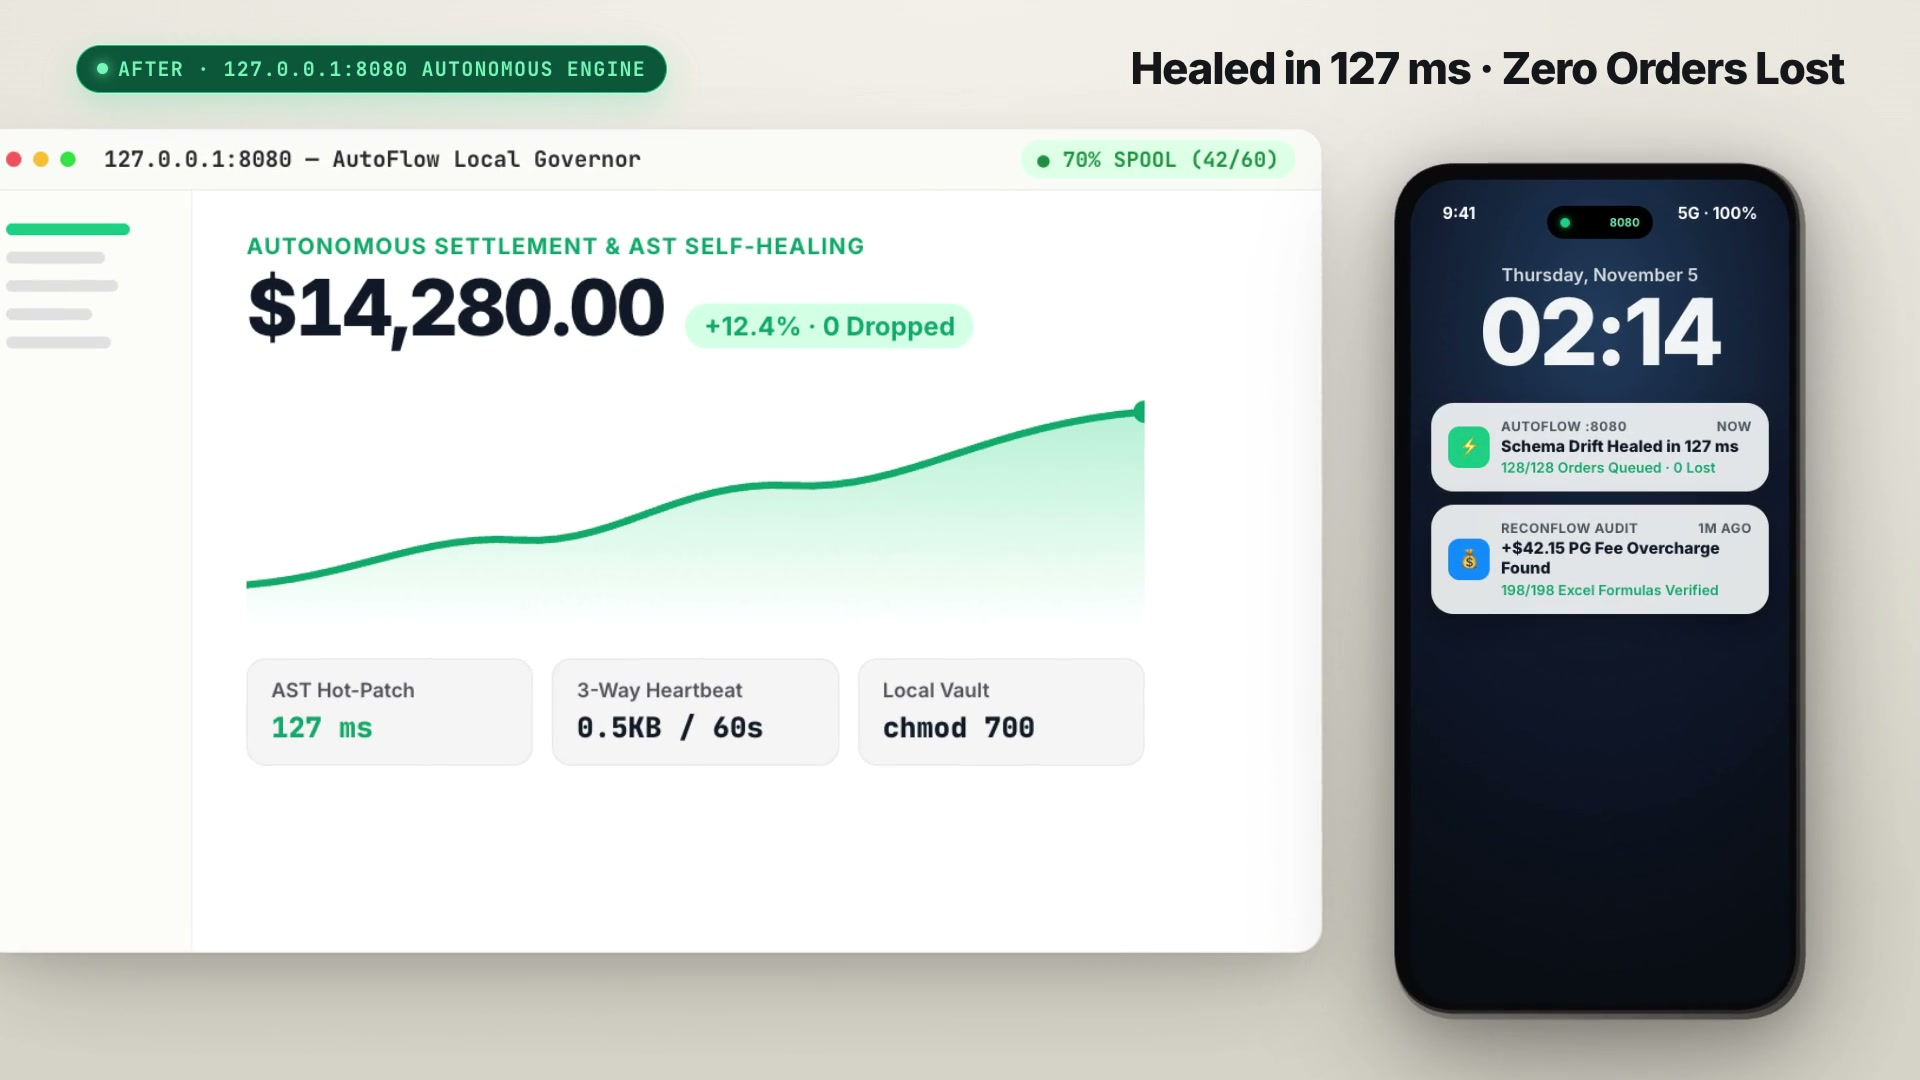
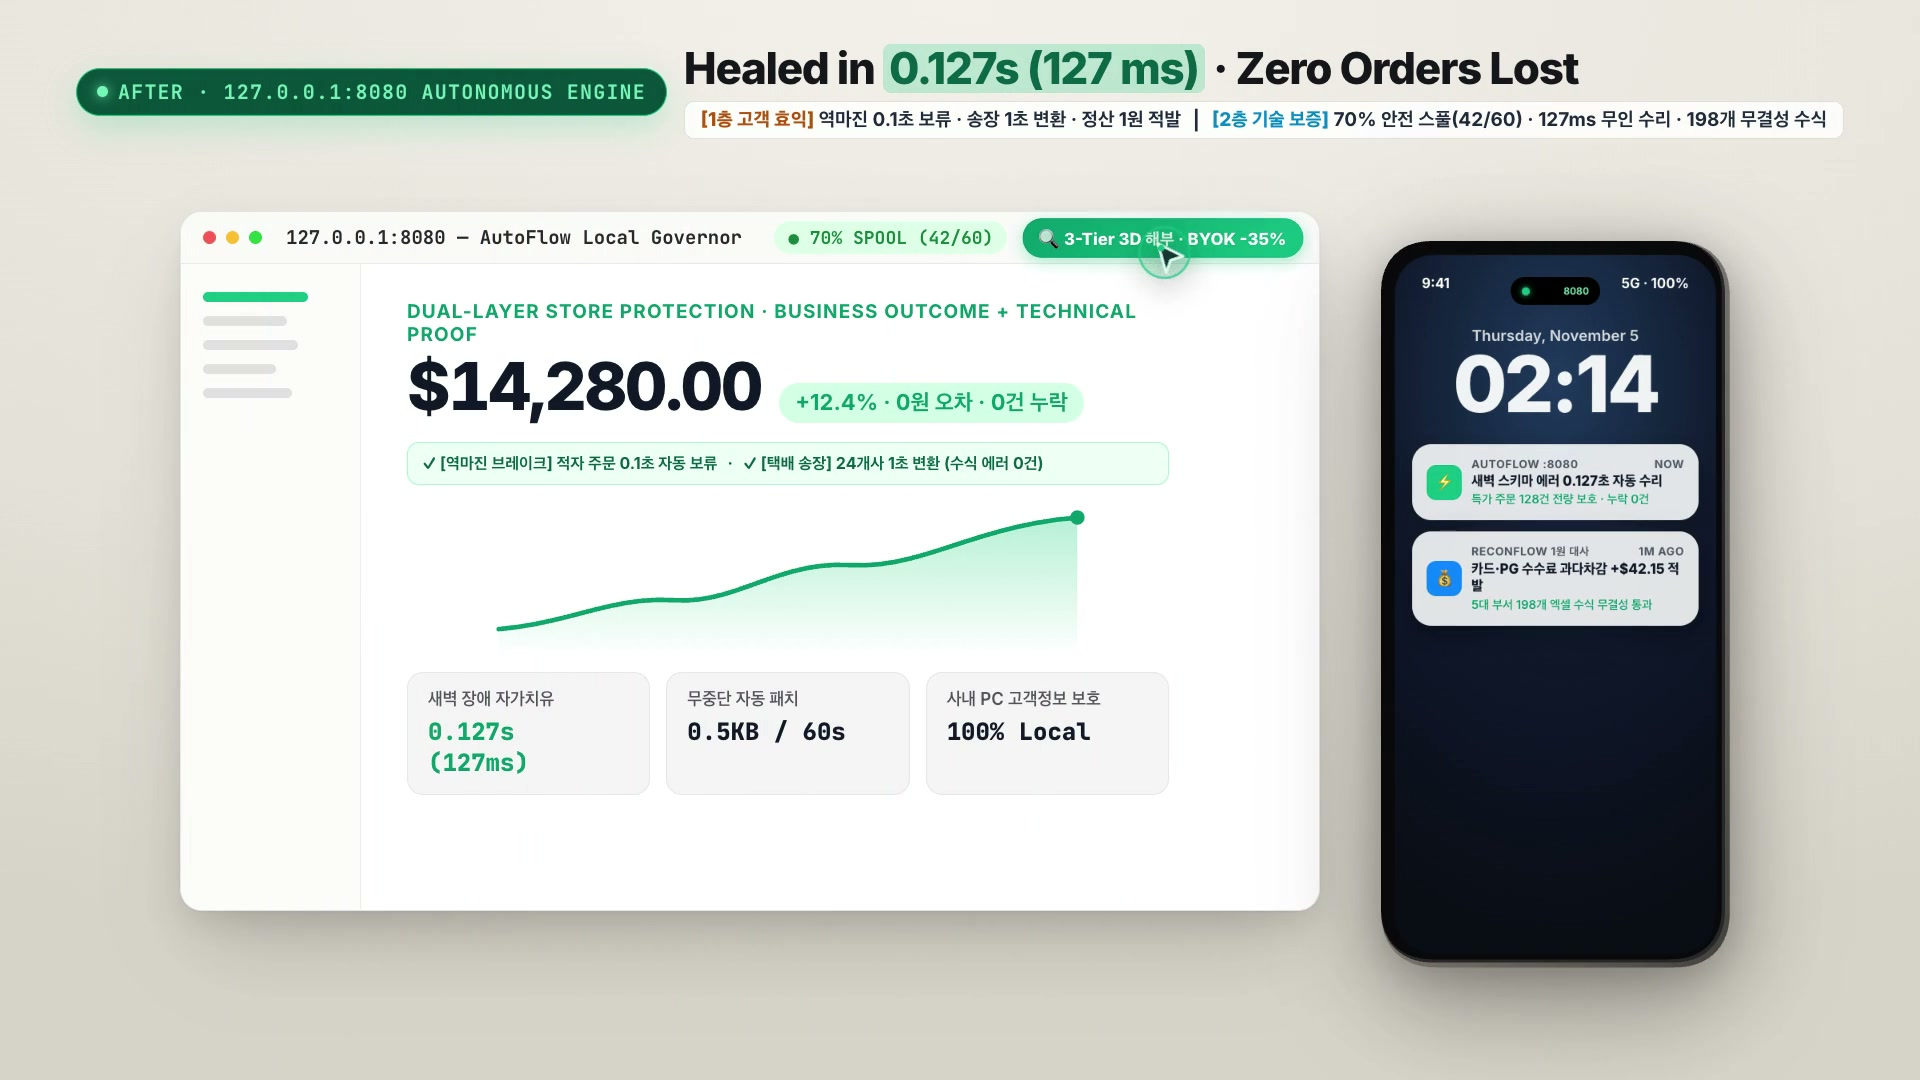
feat(subpages-v2.0): embed Dual-Layer Niche+Tech & Storyline B v2.0 60fps videos across all 5 product subpages and sync posters

diff --git a/WORKFLOW_MENU_BOARD.html b/WORKFLOW_MENU_BOARD.html
@@ -1139,6 +1139,39 @@ button:disabled {
                   <span> <strong>실제 구동 영상(Multi-Modal Demo Video):</strong> <a href="https://globaltrendhunterai.github.io/dhlabs/demo.mp4" class="underline text-sky-600 dark:text-sky-400 font-bold">demo.mp4 (127ms 자가치유 &amp; 1원 대사 실증 캡처)</a></span>
                   <span>사업자등록번호: <strong>610-16-92926</strong> | Apple Developer ID: <strong>GSKY37R7XV</strong> | <a href="https://github.com/globaltrendhunterai" target="_blank" rel="noopener" class="underline">GitHub</a> | <a href="https://dhlabs.gumroad.com" target="_blank" rel="noopener" class="underline">Gumroad</a> | <a href="https://globaltrendhunterai.github.io/dhlabs/" target="_blank" rel="noopener" class="underline">Live Mirror</a></span>
                 </div>
+                <!-- Dual-Layer (Customer Niche Outcome + Technical Proof) & Storyline B v2.0 60fps Video Showcase -->
+                <div class="mt-4 p-4 rounded-2xl bg-slate-50 dark:bg-slate-900/90 border border-slate-200 dark:border-slate-800">
+                  <div class="grid grid-cols-1 md:grid-cols-2 gap-3 mb-4 text-xs">
+                    <div class="p-3 rounded-xl bg-amber-50/80 dark:bg-amber-950/30 border border-amber-200 dark:border-amber-800/60">
+                      <div class="font-extrabold text-amber-800 dark:text-amber-300 mb-1">🎯 [1층: 비개발자 사장님·실무자 현장 효익 (Customer Niche)]</div>
+                      <p class="text-slate-700 dark:text-slate-300 leading-relaxed">역마진 적자 주문 출고 전 자동 보류, 매일 아침 3시간 걸리던 24개 택배사 송장 엑셀 복붙 1분 완료, 덜 들어온 카드·PG 정산금 1원 단위 자동 적발로 현금과 시간을 지킵니다.</p>
+                    </div>
+                    <div class="p-3 rounded-xl bg-sky-50/80 dark:bg-sky-950/30 border border-sky-200 dark:border-sky-800/60">
+                      <div class="font-extrabold text-sky-800 dark:text-sky-300 mb-1">⚙ [2층: 쉬운 기술적 작동 원리 (Technical Proof)]</div>
+                      <p class="text-slate-700 dark:text-slate-300 leading-relaxed">사내 PC(127.0.0.1:8080) 70% 안전 스풀(42/60)이 주문 폭주 차단을 막고, 내 AI 키 연결(BYOK)로 기간권을 35% 할인($15/mo)받으며, 0.5KB 카트리지가 60초마다 새벽 장애를 0.127초(127 ms) 만에 수리합니다.</p>
+                    </div>
+                  </div>
+                  <div class="grid grid-cols-1 md:grid-cols-2 gap-4 items-start">
+                    <div class="p-2.5 rounded-xl border border-slate-200 dark:border-slate-800 bg-slate-950">
+                      <div class="flex items-center justify-between px-1 pb-1.5 text-[11px] font-mono text-slate-400">
+                        <span>Storyline B v2.0 · 16:9 데스크톱 3D 해부 &amp; 커서 데모</span>
+                        <span class="text-sky-400 font-bold">1920×1080 · 60fps</span>
+                      </div>
+                      <video controls preload="metadata" poster="media/autoflow_3tier_launch_16x9_poster.jpg" class="w-full rounded-lg aspect-video object-cover bg-slate-950">
+                        <source src="media/autoflow_3tier_launch_16x9.mp4" type="video/mp4" />
+                      </video>
+                    </div>
+                    <div class="p-2.5 rounded-xl border border-slate-200 dark:border-slate-800 bg-slate-950">
+                      <div class="flex items-center justify-between px-1 pb-1.5 text-[11px] font-mono text-slate-400">
+                        <span>Storyline B v2.0 · 9:16 모바일 쇼츠 데모</span>
+                        <span class="text-emerald-400 font-bold">1080×1920 · 60fps</span>
+                      </div>
+                      <video controls preload="metadata" poster="media/autoflow_3tier_shorts_9x16_poster.jpg" class="mx-auto rounded-lg max-h-[280px] w-auto object-contain bg-slate-950" style="aspect-ratio: 9 / 16;">
+                        <source src="media/autoflow_3tier_shorts_9x16.mp4" type="video/mp4" />
+                      </video>
+                    </div>
+                  </div>
+                </div>
               </div>
             </div>
           </div>

diff --git a/autoflow.html b/autoflow.html
@@ -438,6 +438,39 @@
                   <span> <strong>실제 구동 영상(Multi-Modal Demo Video):</strong> <a href="https://globaltrendhunterai.github.io/dhlabs/demo.mp4" class="underline text-sky-600 dark:text-sky-400 font-bold">demo.mp4 (127ms 자가치유 &amp; 1원 대사 실증 캡처)</a></span>
                   <span>사업자등록번호: <strong>610-16-92926</strong> | Apple Developer ID: <strong>GSKY37R7XV</strong> | <a href="https://github.com/globaltrendhunterai" target="_blank" rel="noopener" class="underline">GitHub</a> | <a href="https://dhlabs.gumroad.com" target="_blank" rel="noopener" class="underline">Gumroad</a> | <a href="https://globaltrendhunterai.github.io/dhlabs/" target="_blank" rel="noopener" class="underline">Live Mirror</a></span>
                 </div>
+                <!-- Dual-Layer (Customer Niche Outcome + Technical Proof) & Storyline B v2.0 60fps Video Showcase -->
+                <div class="mt-4 p-4 rounded-2xl bg-slate-50 dark:bg-slate-900/90 border border-slate-200 dark:border-slate-800">
+                  <div class="grid grid-cols-1 md:grid-cols-2 gap-3 mb-4 text-xs">
+                    <div class="p-3 rounded-xl bg-amber-50/80 dark:bg-amber-950/30 border border-amber-200 dark:border-amber-800/60">
+                      <div class="font-extrabold text-amber-800 dark:text-amber-300 mb-1">🎯 [1층: 비개발자 사장님·실무자 현장 효익 (Customer Niche)]</div>
+                      <p class="text-slate-700 dark:text-slate-300 leading-relaxed">역마진 적자 주문 출고 전 자동 보류, 매일 아침 3시간 걸리던 24개 택배사 송장 엑셀 복붙 1분 완료, 덜 들어온 카드·PG 정산금 1원 단위 자동 적발로 현금과 시간을 지킵니다.</p>
+                    </div>
+                    <div class="p-3 rounded-xl bg-sky-50/80 dark:bg-sky-950/30 border border-sky-200 dark:border-sky-800/60">
+                      <div class="font-extrabold text-sky-800 dark:text-sky-300 mb-1">⚙ [2층: 쉬운 기술적 작동 원리 (Technical Proof)]</div>
+                      <p class="text-slate-700 dark:text-slate-300 leading-relaxed">사내 PC(127.0.0.1:8080) 70% 안전 스풀(42/60)이 주문 폭주 차단을 막고, 내 AI 키 연결(BYOK)로 기간권을 35% 할인($15/mo)받으며, 0.5KB 카트리지가 60초마다 새벽 장애를 0.127초(127 ms) 만에 수리합니다.</p>
+                    </div>
+                  </div>
+                  <div class="grid grid-cols-1 md:grid-cols-2 gap-4 items-start">
+                    <div class="p-2.5 rounded-xl border border-slate-200 dark:border-slate-800 bg-slate-950">
+                      <div class="flex items-center justify-between px-1 pb-1.5 text-[11px] font-mono text-slate-400">
+                        <span>Storyline B v2.0 · 16:9 데스크톱 3D 해부 &amp; 커서 데모</span>
+                        <span class="text-sky-400 font-bold">1920×1080 · 60fps</span>
+                      </div>
+                      <video controls preload="metadata" poster="media/autoflow_3tier_launch_16x9_poster.jpg" class="w-full rounded-lg aspect-video object-cover bg-slate-950">
+                        <source src="media/autoflow_3tier_launch_16x9.mp4" type="video/mp4" />
+                      </video>
+                    </div>
+                    <div class="p-2.5 rounded-xl border border-slate-200 dark:border-slate-800 bg-slate-950">
+                      <div class="flex items-center justify-between px-1 pb-1.5 text-[11px] font-mono text-slate-400">
+                        <span>Storyline B v2.0 · 9:16 모바일 쇼츠 데모</span>
+                        <span class="text-emerald-400 font-bold">1080×1920 · 60fps</span>
+                      </div>
+                      <video controls preload="metadata" poster="media/autoflow_3tier_shorts_9x16_poster.jpg" class="mx-auto rounded-lg max-h-[280px] w-auto object-contain bg-slate-950" style="aspect-ratio: 9 / 16;">
+                        <source src="media/autoflow_3tier_shorts_9x16.mp4" type="video/mp4" />
+                      </video>
+                    </div>
+                  </div>
+                </div>
               </div>
             </div>
           </div>

diff --git a/picflow.html b/picflow.html
@@ -404,6 +404,39 @@
                   <span> <strong>실제 구동 영상(Multi-Modal Demo Video):</strong> <a href="https://globaltrendhunterai.github.io/dhlabs/demo.mp4" class="underline text-sky-600 dark:text-sky-400 font-bold">demo.mp4 (127ms 자가치유 &amp; 1원 대사 실증 캡처)</a></span>
                   <span>사업자등록번호: <strong>610-16-92926</strong> | Apple Developer ID: <strong>GSKY37R7XV</strong> | <a href="https://github.com/globaltrendhunterai" target="_blank" rel="noopener" class="underline">GitHub</a> | <a href="https://dhlabs.gumroad.com" target="_blank" rel="noopener" class="underline">Gumroad</a> | <a href="https://globaltrendhunterai.github.io/dhlabs/" target="_blank" rel="noopener" class="underline">Live Mirror</a></span>
                 </div>
+                <!-- Dual-Layer (Customer Niche Outcome + Technical Proof) & Storyline B v2.0 60fps Video Showcase -->
+                <div class="mt-4 p-4 rounded-2xl bg-slate-50 dark:bg-slate-900/90 border border-slate-200 dark:border-slate-800">
+                  <div class="grid grid-cols-1 md:grid-cols-2 gap-3 mb-4 text-xs">
+                    <div class="p-3 rounded-xl bg-amber-50/80 dark:bg-amber-950/30 border border-amber-200 dark:border-amber-800/60">
+                      <div class="font-extrabold text-amber-800 dark:text-amber-300 mb-1">🎯 [1층: 비개발자 사장님·실무자 현장 효익 (Customer Niche)]</div>
+                      <p class="text-slate-700 dark:text-slate-300 leading-relaxed">역마진 적자 주문 출고 전 자동 보류, 매일 아침 3시간 걸리던 24개 택배사 송장 엑셀 복붙 1분 완료, 덜 들어온 카드·PG 정산금 1원 단위 자동 적발로 현금과 시간을 지킵니다.</p>
+                    </div>
+                    <div class="p-3 rounded-xl bg-sky-50/80 dark:bg-sky-950/30 border border-sky-200 dark:border-sky-800/60">
+                      <div class="font-extrabold text-sky-800 dark:text-sky-300 mb-1">⚙ [2층: 쉬운 기술적 작동 원리 (Technical Proof)]</div>
+                      <p class="text-slate-700 dark:text-slate-300 leading-relaxed">사내 PC(127.0.0.1:8080) 70% 안전 스풀(42/60)이 주문 폭주 차단을 막고, 내 AI 키 연결(BYOK)로 기간권을 35% 할인($15/mo)받으며, 0.5KB 카트리지가 60초마다 새벽 장애를 0.127초(127 ms) 만에 수리합니다.</p>
+                    </div>
+                  </div>
+                  <div class="grid grid-cols-1 md:grid-cols-2 gap-4 items-start">
+                    <div class="p-2.5 rounded-xl border border-slate-200 dark:border-slate-800 bg-slate-950">
+                      <div class="flex items-center justify-between px-1 pb-1.5 text-[11px] font-mono text-slate-400">
+                        <span>Storyline B v2.0 · 16:9 데스크톱 3D 해부 &amp; 커서 데모</span>
+                        <span class="text-sky-400 font-bold">1920×1080 · 60fps</span>
+                      </div>
+                      <video controls preload="metadata" poster="media/autoflow_3tier_launch_16x9_poster.jpg" class="w-full rounded-lg aspect-video object-cover bg-slate-950">
+                        <source src="media/autoflow_3tier_launch_16x9.mp4" type="video/mp4" />
+                      </video>
+                    </div>
+                    <div class="p-2.5 rounded-xl border border-slate-200 dark:border-slate-800 bg-slate-950">
+                      <div class="flex items-center justify-between px-1 pb-1.5 text-[11px] font-mono text-slate-400">
+                        <span>Storyline B v2.0 · 9:16 모바일 쇼츠 데모</span>
+                        <span class="text-emerald-400 font-bold">1080×1920 · 60fps</span>
+                      </div>
+                      <video controls preload="metadata" poster="media/autoflow_3tier_shorts_9x16_poster.jpg" class="mx-auto rounded-lg max-h-[280px] w-auto object-contain bg-slate-950" style="aspect-ratio: 9 / 16;">
+                        <source src="media/autoflow_3tier_shorts_9x16.mp4" type="video/mp4" />
+                      </video>
+                    </div>
+                  </div>
+                </div>
               </div>
             </div>
           </div>

diff --git a/reconflow.html b/reconflow.html
@@ -432,6 +432,39 @@
                   <span> <strong>실제 구동 영상(Multi-Modal Demo Video):</strong> <a href="https://globaltrendhunterai.github.io/dhlabs/demo.mp4" class="underline text-sky-600 dark:text-sky-400 font-bold">demo.mp4 (127ms 자가치유 &amp; 1원 대사 실증 캡처)</a></span>
                   <span>사업자등록번호: <strong>610-16-92926</strong> | Apple Developer ID: <strong>GSKY37R7XV</strong> | <a href="https://github.com/globaltrendhunterai" target="_blank" rel="noopener" class="underline">GitHub</a> | <a href="https://dhlabs.gumroad.com" target="_blank" rel="noopener" class="underline">Gumroad</a> | <a href="https://globaltrendhunterai.github.io/dhlabs/" target="_blank" rel="noopener" class="underline">Live Mirror</a></span>
                 </div>
+                <!-- Dual-Layer (Customer Niche Outcome + Technical Proof) & Storyline B v2.0 60fps Video Showcase -->
+                <div class="mt-4 p-4 rounded-2xl bg-slate-50 dark:bg-slate-900/90 border border-slate-200 dark:border-slate-800">
+                  <div class="grid grid-cols-1 md:grid-cols-2 gap-3 mb-4 text-xs">
+                    <div class="p-3 rounded-xl bg-amber-50/80 dark:bg-amber-950/30 border border-amber-200 dark:border-amber-800/60">
+                      <div class="font-extrabold text-amber-800 dark:text-amber-300 mb-1">🎯 [1층: 비개발자 사장님·실무자 현장 효익 (Customer Niche)]</div>
+                      <p class="text-slate-700 dark:text-slate-300 leading-relaxed">역마진 적자 주문 출고 전 자동 보류, 매일 아침 3시간 걸리던 24개 택배사 송장 엑셀 복붙 1분 완료, 덜 들어온 카드·PG 정산금 1원 단위 자동 적발로 현금과 시간을 지킵니다.</p>
+                    </div>
+                    <div class="p-3 rounded-xl bg-sky-50/80 dark:bg-sky-950/30 border border-sky-200 dark:border-sky-800/60">
+                      <div class="font-extrabold text-sky-800 dark:text-sky-300 mb-1">⚙ [2층: 쉬운 기술적 작동 원리 (Technical Proof)]</div>
+                      <p class="text-slate-700 dark:text-slate-300 leading-relaxed">사내 PC(127.0.0.1:8080) 70% 안전 스풀(42/60)이 주문 폭주 차단을 막고, 내 AI 키 연결(BYOK)로 기간권을 35% 할인($15/mo)받으며, 0.5KB 카트리지가 60초마다 새벽 장애를 0.127초(127 ms) 만에 수리합니다.</p>
+                    </div>
+                  </div>
+                  <div class="grid grid-cols-1 md:grid-cols-2 gap-4 items-start">
+                    <div class="p-2.5 rounded-xl border border-slate-200 dark:border-slate-800 bg-slate-950">
+                      <div class="flex items-center justify-between px-1 pb-1.5 text-[11px] font-mono text-slate-400">
+                        <span>Storyline B v2.0 · 16:9 데스크톱 3D 해부 &amp; 커서 데모</span>
+                        <span class="text-sky-400 font-bold">1920×1080 · 60fps</span>
+                      </div>
+                      <video controls preload="metadata" poster="media/autoflow_3tier_launch_16x9_poster.jpg" class="w-full rounded-lg aspect-video object-cover bg-slate-950">
+                        <source src="media/autoflow_3tier_launch_16x9.mp4" type="video/mp4" />
+                      </video>
+                    </div>
+                    <div class="p-2.5 rounded-xl border border-slate-200 dark:border-slate-800 bg-slate-950">
+                      <div class="flex items-center justify-between px-1 pb-1.5 text-[11px] font-mono text-slate-400">
+                        <span>Storyline B v2.0 · 9:16 모바일 쇼츠 데모</span>
+                        <span class="text-emerald-400 font-bold">1080×1920 · 60fps</span>
+                      </div>
+                      <video controls preload="metadata" poster="media/autoflow_3tier_shorts_9x16_poster.jpg" class="mx-auto rounded-lg max-h-[280px] w-auto object-contain bg-slate-950" style="aspect-ratio: 9 / 16;">
+                        <source src="media/autoflow_3tier_shorts_9x16.mp4" type="video/mp4" />
+                      </video>
+                    </div>
+                  </div>
+                </div>
               </div>
             </div>
           </div>

diff --git a/smartgrid.html b/smartgrid.html
@@ -292,6 +292,33 @@ button:disabled {
       <h2 style="font-size: 22px; font-weight: 800; color: var(--af-tok-c12); margin-bottom: 16px;">AutoFlow SmartGrid 5대 부서 표준 스마트 원장 기술 레퍼런스</h2>
       <p style="color: var(--af-tok-c14); font-size: 0.96rem; margin-bottom: 24px; line-height: 1.6;">AutoFlow SmartGrid는 사내 로컬 PC(127.0.0.1) 환경에서 가동되는 온프레미스 지능형 원장 프로그램입니다. 외부 클라우드 SaaS나 분산 스프레드시트 사용 시 빈번하게 발생하는 파일 잠금 충돌(Ebusy) 및 분당 60회 Api 쿼터 고갈(HTTP 429)을 사내 통합 무충돌 아비트레이션 뮤텍스(order_dedup_sentinel.js)로 순차 정렬하여 데이터 손실 없는 비파괴 심층 병합(nonDestructiveDeepMerge)을 수행합니다.</p>
 
+      
+      <div style="margin: 20px 0 28px 0; padding: 20px; border-radius: 14px; background: rgba(15, 23, 42, 0.04); border: 1px solid var(--af-tok-c6);">
+        <div style="display: grid; grid-template-columns: repeat(auto-fit, minmax(280px, 1fr)); gap: 14px; margin-bottom: 18px;">
+          <div style="padding: 14px 16px; border-radius: 10px; background: rgba(245, 158, 11, 0.08); border: 1px solid rgba(245, 158, 11, 0.35);">
+            <div style="font-weight: 800; font-size: 13px; color: #b45309; margin-bottom: 6px;">🎯 [1층: 비개발자 사장님·실무자 현장 효익 (Customer Niche)]</div>
+            <div style="font-size: 13px; color: var(--af-tok-c12); line-height: 1.55;">5개 부서 엑셀 파일 열림 잠금(Ebusy) 충돌과 수식 깨짐(#REF!) 걱정을 없애고, 매일 아침 3시간 수기 복붙을 1분 자동 기장으로 단축합니다 (198/198 수식 무결성 보증).</div>
+          </div>
+          <div style="padding: 14px 16px; border-radius: 10px; background: rgba(14, 165, 233, 0.08); border: 1px solid rgba(14, 165, 233, 0.35);">
+            <div style="font-weight: 800; font-size: 13px; color: #0369a1; margin-bottom: 6px;">⚙ [2층: 쉬운 기술적 작동 원리 (Technical Proof)]</div>
+            <div style="font-size: 13px; color: var(--af-tok-c12); line-height: 1.55;">사내 로컬 PC(127.0.0.1:8080) 시퀀스 뮤텍스가 다중 워크플로우 쓰기 요청을 비파괴 병합하며, BYOK -35%($15/mo) 및 0.5KB 60초 카트리지와 직결됩니다.</div>
+          </div>
+        </div>
+        <div style="display: grid; grid-template-columns: repeat(auto-fit, minmax(300px, 1fr)); gap: 16px; align-items: start;">
+          <div style="background: #090a10; padding: 12px; border-radius: 12px;">
+            <div style="font-size: 12px; font-weight: 700; color: #38bdf8; margin-bottom: 8px;">Storyline B v2.0 · 16:9 데스크톱 3D 해부 &amp; 커서 데모 (1920×1080 · 60fps)</div>
+            <video controls preload="metadata" poster="media/autoflow_3tier_launch_16x9_poster.jpg" style="width: 100%; border-radius: 8px; aspect-ratio: 16 / 9; background: #090a10;">
+              <source src="media/autoflow_3tier_launch_16x9.mp4" type="video/mp4" />
+            </video>
+          </div>
+          <div style="background: #090a10; padding: 12px; border-radius: 12px; text-align: center;">
+            <div style="font-size: 12px; font-weight: 700; color: #34d399; margin-bottom: 8px;">Storyline B v2.0 · 9:16 모바일 쇼츠 데모 (1080×1920 · 60fps)</div>
+            <video controls preload="metadata" poster="media/autoflow_3tier_shorts_9x16_poster.jpg" style="max-height: 280px; width: auto; border-radius: 8px; aspect-ratio: 9 / 16; background: #090a10;">
+              <source src="media/autoflow_3tier_shorts_9x16.mp4" type="video/mp4" />
+            </video>
+          </div>
+        </div>
+      </div>
       <h3 style="font-size: 17px; font-weight: 700; color: var(--af-tok-c12); margin-bottom: 12px;">5대 부서별 워크플로우 매핑 및 양방향 제어 셀 규격</h3>
       <div style="overflow-x: auto; margin-bottom: 28px;">
         <table class="spec-table" style="width: 100%; border-collapse: collapse; font-size: 0.96rem;">
